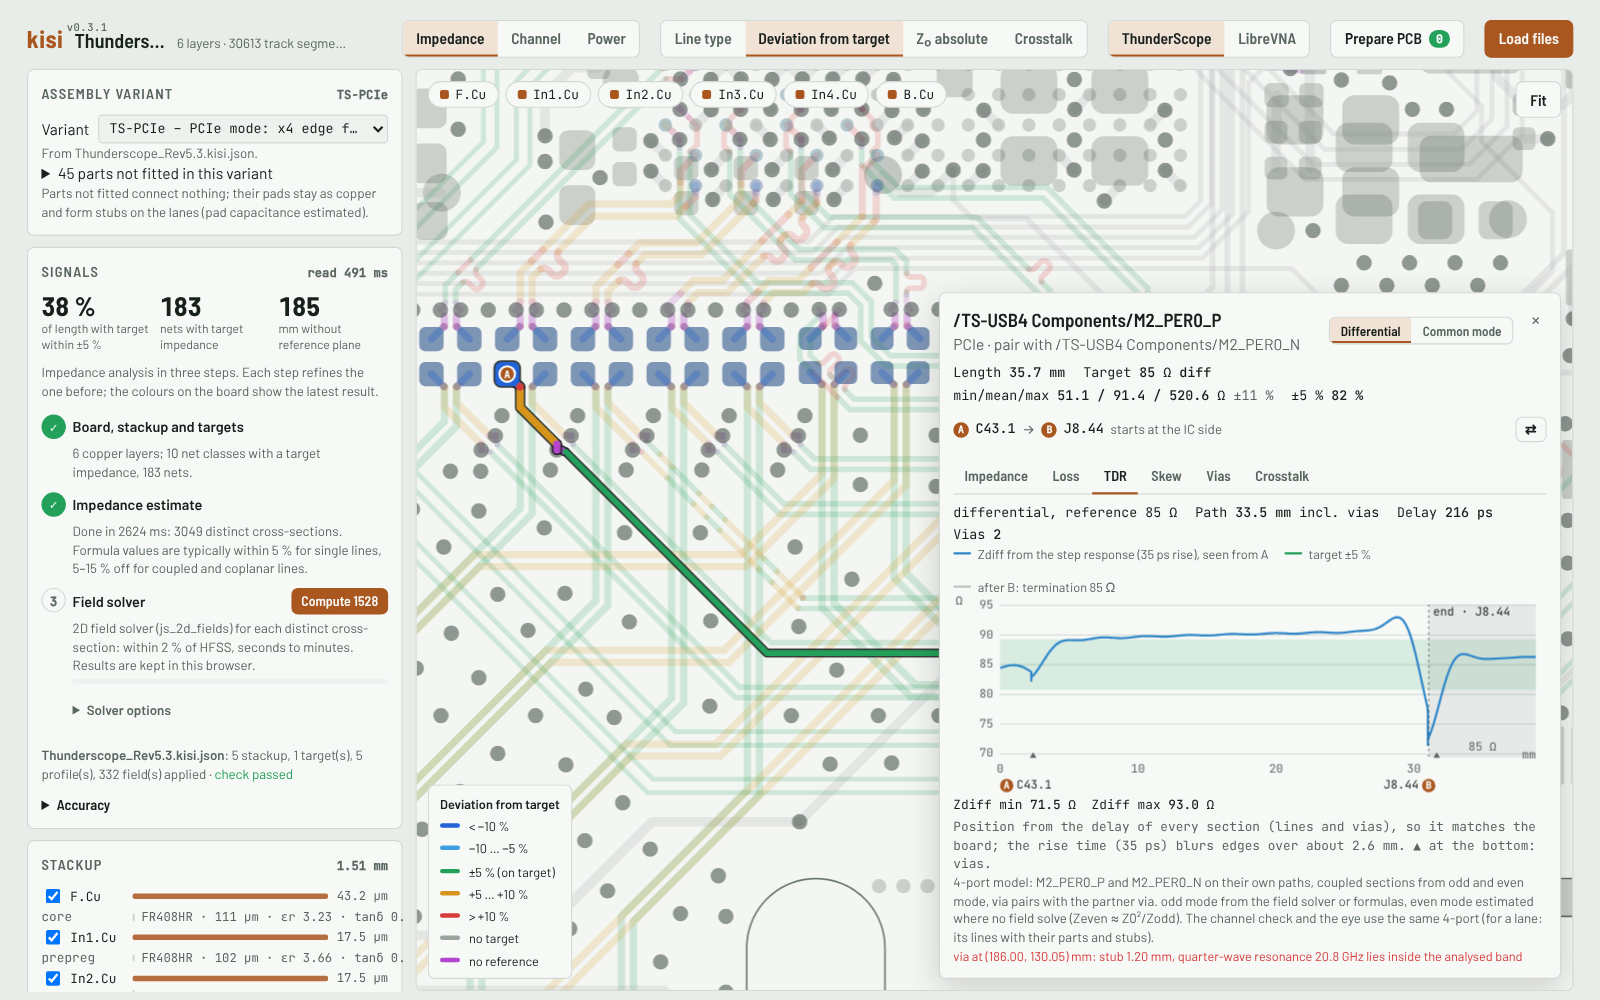
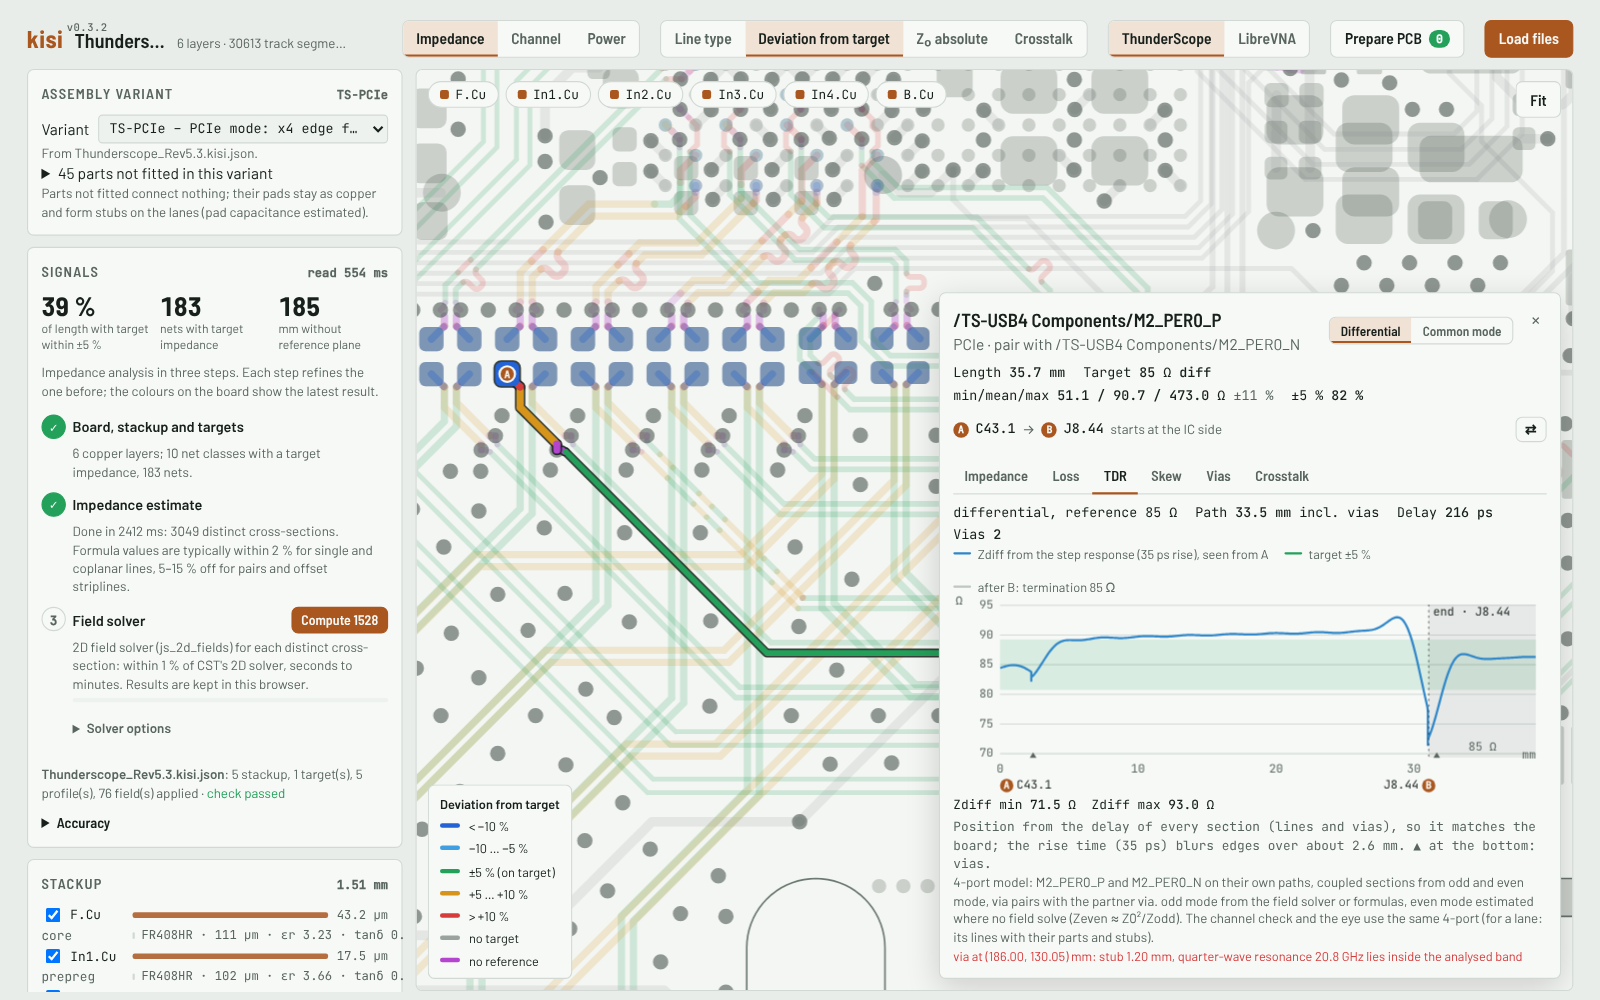
Version 0.3.2
- Version 0.3.2 (workspace, Claude plugin; the KiCad plugin takes it from
  Cargo.toml); docs screenshots regenerated with the current results.
- Docs: the 2D (620 cross-sections, CST) and 3D (openEMS, CST) cross-checks in
  README, landing page and viewer notes instead of "validation still open";
  current via-model numbers from results/kisi_models.json in docs/models.md and
  the viewer; field solver 1 % and the coplanar entry in the accuracy-levels
  note; a "Reference cases" entry on the landing page.
- ROADMAP: status after 0.3.2, released items marked, the openEMS/CST
  cross-check of the 3D references as done with what waits for the next via
  model change.
- rust_models.json and via_ref/*/ladder.s2p marked as historical (earlier
  ladder run) in validation/fdtd/README.md and on the 3D reference page.

Changed region(s): [[0.0312, 0.527, 0.25, 0.992], [0.4062, 0.186, 0.4375, 0.217]]

diff --git a/web/pages/index.html b/web/pages/index.html
@@ -144,7 +144,7 @@ node kisi.mjs check board.kicad_pcb</pre>
         <div class="card"><h3>Reference</h3>
           <ul><li><a href="https://github.com/riehlies/kisi/blob/main/docs/reference.md">Fields and kisi.json</a></li><li><a href="https://github.com/riehlies/kisi/blob/main/docs/cli.md">Command line</a></li><li><a href="https://github.com/riehlies/kisi/blob/main/docs/agents.md">Using kisi with agents</a></li></ul></div>
         <div class="card"><h3>Background</h3>
-          <ul><li><a href="https://github.com/riehlies/kisi/blob/main/docs/models.md">Models and limits</a> – accuracy, validation, estimates</li><li><a href="kisi-docs.pdf">All of it as one PDF</a></li></ul></div>
+          <ul><li><a href="https://github.com/riehlies/kisi/blob/main/docs/models.md">Models and limits</a> – accuracy, validation, estimates</li><li><a href="https://github.com/riehlies/kisi/blob/main/docs/models.md#validation">Reference cases</a> – the 3D via and plane cases and the 2D cross-sections, as pages on the releases (<code>kisi-references-3d.html</code>, <code>kisi-references-2d.html</code>)</li><li><a href="kisi-docs.pdf">All of it as one PDF</a></li></ul></div>
       </div>
     </div>
   </section>
@@ -156,8 +156,9 @@ node kisi.mjs check board.kicad_pcb</pre>
         <p><b>A quick project, meant to be helpful.</b> kisi is a fast check of a board without long setup times.
           Its results are estimates for design checks, without any warranty of correctness – not a replacement for
           sign-off simulation or measurement.</p>
-        <p>The field solver was compared with HFSS cases and the via and plane models with 3D FDTD results;
-          validation against other solvers and against measurements is still open. kisi stays a fast linear checker:
+        <p>The field solver and the formulas were compared with CST on 620 cross-sections and with HFSS cases, the
+          via and plane models with 3D FDTD references that openEMS and CST cross-check; validation against
+          measurements is still open. kisi stays a fast linear checker:
           for a sign-off with IBIS buffers and equalisers, export the channel to PyBERT or a circuit simulator. The
           single tools are useful on their own already.</p>
       </div>

diff --git a/web/index.html b/web/index.html
@@ -127,9 +127,9 @@
             <tr><td>Microstrip over 3 mm cut-out (HFSS)</td><td class="num">+17 %</td><td class="num">−0.5 %</td></tr>
           </tbody>
         </table>
-        <p class="note"><b>Lines and vias.</b> RLGC within 2 % of HFSS; copper roughness presets are estimates. Vias as a physics-based ladder (return vias, antipads, stubs, back-drilling, pairs), compared with 3D results of kisi's FDTD solver: via impedance in the TDR median 1.4 %, 90th percentile 7.4 %; pairs within 3.5° phase; stub notch within 3 %.</p>
+        <p class="note"><b>Lines and vias.</b> RLGC within 2 % of HFSS; copper roughness presets are estimates. Vias as a physics-based ladder (return vias, antipads, stubs, back-drilling, pairs), compared with the 3D references of kisi's FDTD solver, which openEMS and CST cross-check: via impedance in the TDR median 2.5 %, 90th percentile 5.6 %; pairs within 1.8° phase (median); stub notch within 1.5 %.</p>
         <p class="note"><b>Channel.</b> Parasitics of series parts and packages are estimates (data/components.json). The eye uses the profile's linear transmitter and receiver: no IBIS models, equalisation, jitter or noise. The channel behind a connector is what you give in the interface's card: a lossy line or a Touchstone file.</p>
-        <p class="note"><b>Still open:</b> validation against other solvers and against measurements (a test board is planned). Treat the numbers as plausible estimates, not as verified results.</p>
+        <p class="note"><b>Still open:</b> validation against measurements (a test board is planned). Treat the numbers as plausible estimates, not as verified results.</p>
       </details>
     </section>
 

diff --git a/validation/fdtd/viewer_template.html b/validation/fdtd/viewer_template.html
@@ -146,7 +146,7 @@ const GROUPS = {
 };
 const TOOLS = { kisi: ["kisi-fdtd", "var(--s1)", ""], kisi_fine: ["kisi-fdtd, finer mesh", "var(--s1)", "dash"], kisi_base: ["kisi-fdtd, base mesh (former reference)", "var(--s1)", "dash"], openems: ["openEMS (staircase, cell at metal halved)", "var(--s2)", ""], openems_base: ["openEMS (staircase, kisi-fdtd's mesh)", "var(--s2)", "dash"],
   openems_de: ["openEMS, de-embedded (its own 2×thru)", "var(--s2)", ""], cst: ["CST", "var(--s4)", ""], cst_de: ["CST, de-embedded (its own 2×thru)", "var(--s4)", "dash"],
-  kisi_model: ["kisi channel model (fast)", "var(--s3)", "dash"], deembedded: ["kisi-fdtd, de-embedded", "var(--s4)", ""], pbm: ["via ladder, Python prototype", "var(--s2)", "dash"], ladder: ["via ladder in kisi (Rust)", "var(--s3)", ""],
+  kisi_model: ["kisi channel model (fast)", "var(--s3)", "dash"], deembedded: ["kisi-fdtd, de-embedded", "var(--s4)", ""], pbm: ["via ladder, Python prototype", "var(--s2)", "dash"], ladder: ["via ladder in kisi (Rust, earlier run)", "var(--s3)", ""],
   model: ["cavity model", "var(--s2)", "dash"] };
 const css = (v) => getComputedStyle(document.documentElement).getPropertyValue(v.replace(/^var\((.*)\)$/, "$1")).trim();
 const cases = DATA.cases;

diff --git a/validation/fdtd/make_viewer.py b/validation/fdtd/make_viewer.py
@@ -121,7 +121,9 @@ def model_check(nm, d):
                 "kisi's ladder adds to the prototype the junction model fitted to the 3D references (series inductance μ0/(2π)·pad radius where a trace "
                 "enters the via, the trace over the antipad scaled from its own line, striplines kept up to the via centre) and the equivalent radius of "
                 "non-round antipads. Time per via for 400 frequencies: build (r–z Laplace solve) + evaluation; the Laplace result is cached per via "
-                "geometry, so a board solves it once per via type. Script: rust_models.py."]
+                "geometry, so a board solves it once per via type. Script: rust_models.py.",
+                "This table and the curves “via ladder in kisi (Rust, earlier run)” are a stored run (TESTS.md section 7), older than kisi's "
+                "current ladder (TESTS.md section 17); kisi's current model is in “kisi's fast channel model against the 3D result”."]
         if cv:
             text.append(f"Cavity model: Rust within {cv['dZ_rel_max']:.1e} of Python; {cv['nf']} frequencies × {cv['modes']} modes in "
                         f"{' / '.join(str(x) for x in cv['rust_eval_ms'])} ms (Python {' / '.join(str(x) for x in cv['python_ms'])} ms). "

diff --git a/ROADMAP.md b/ROADMAP.md
@@ -1,6 +1,6 @@
 # kisi – roadmap
 
-Planned and possible work after 0.3.1, in three development blocks plus work across them. Within a block the items
+Planned and possible work after 0.3.2, in three development blocks plus work across them. Within a block the items
 are roughly in order of priority; each says why it matters, "Decide first" marks items that need a decision before
 work starts. One rule holds for all of them: `main` always has a clean, mostly self-explanatory build – new features
 come with a small, clear UI and without option combinatorics.
@@ -53,7 +53,8 @@ well; the challenge is preparing a new design for a meaningful analysis – miss
   example boards, the XIAO and the JLC/LCSC library, in `data/components.json`), then the Value text, then the
   description; the PDN names the source of each value, `kisi gaps` lists only capacitors still without a rating,
   and the viewer's capacitor form suggests what the fields give in part. The XIAO and ThunderScope need no
-  `PI_CAP` for it any more (ThunderScope's 256 entries removed from its kisi.json, results unchanged).
+  `PI_CAP` for it any more (ThunderScope's 256 entries removed from its kisi.json, results unchanged). Released in
+  0.3.2.
 - **Power tree per supply case.** Boards that run from USB or a battery (a PMIC power path) have one tree per case:
   on the XIAO, VSYS is VBUS on USB and VBAT on battery, and the debugger is supplied only on USB; while charging, the
   battery charge current is a load on VSYS. Today one tree has to stand for all cases.
@@ -70,7 +71,9 @@ well; the challenge is preparing a new design for a meaningful analysis – miss
   in KiCad 10's PCB editor opens the saved board with its `<board>.kisi.json` in a copy of the viewer
   (`analysis/<board>.kisi.html`), the package carries the CLI and the agent guide (`docs/getting-started.md`,
   design note `docs/research/kicad-plugin.md`). Tested in KiCad 10 on Windows; the entry for KiCad's Plugin and
-  Content Manager (status `testing`, KiCad 10.0) is under review. Open: a test in KiCad 10 on Linux and macOS
+  Content Manager (status `testing`, KiCad 10.0) is under review. In 0.3.2: the Linux and macOS paths reviewed
+  (the plugin's folder, browser start, Node.js locations, Downloads folder) and the package's `install_size` as
+  KiCad's repository validator counts it. Open: a test in KiCad 10 on Linux and macOS
   (checklist in the design note; their code paths are reviewed and unit-tested), then status `stable`; KiCad 9
   (untested); the "unsaved changes" notice once KiCad's API reports them (`GetDocumentModifiedState`, KiCad's
   development branch – the plugin uses it when kicad-python has it).
@@ -109,6 +112,14 @@ validation, and every result says which level it used and how uncertain it is.
   - **a 3D check in the viewer** (export a selected via or structure, run kisi-fdtd in a worker, compare with the
     ladder at the via centre; about 8 days, a minimal version 4; design note `BOARD_VIAS.md` section 5.6);
   - the ladder in WebAssembly is about 2 × slower than native.
+- **3D references cross-checked** (done, released in 0.3.2): every one of the 106 reference cases also in openEMS
+  and in CST Studio Suite (TESTS.md sections 16 and 17, `validation/fdtd/CST.md`); the cross-check found the
+  inner-layer exits and the board vias with an inner exit not mesh-converged, and they were recomputed on a refined
+  mesh (kisi-fdtd − CST within ±0.07 ps on 16 of 17 cases, before +1.0 … +2.3 ps). Next, one model change together:
+  the junction fit's proposal (the ladder is now 1.26 ps slow on stripline exits; remove about 0.2 mm of the
+  stripline feed, TESTS.md section 17), then the stored via results – `data/accuracy.json`'s via numbers (2.45 /
+  5.92 % and 12.6 / 14.4 %; 2.46 / 5.64 % and 10.9 / 13.7 % against the refined references), and
+  `results/rust_models.json` and `via_ref/<case>/ladder.s2p`, which are older than the current ladder.
 - **Causal and passive models** (`feat/accuracy`, done): the via pairs' modes and the plane-pair matrix passive by
   construction, Djordjevic-Sarkar everywhere, the causal Huray roughness with its inductance, microstrip
   dispersion below a resonance; every example lane passive and causal in a test (`validation/fdtd/TESTS.md`
@@ -123,10 +134,11 @@ validation, and every result says which level it used and how uncertain it is.
   (`data/accuracy.json`, design note `docs/research/accuracy-levels.md`). Next: loss (± dB at Nyquist from
   lines and vias) and return loss (a range from the impedance uncertainty), then the eye; the 3D level per
   selected structure with the viewer's 3D check.
-- **Cross-section formulas and etch** (`feat/xs-accuracy`): the 2D validation (`validation/cst_xs`, 620 cases
-  against CST) set the field solver's uncertainty to 1 % and brought formulas for coplanar lines (grounded CPW,
-  stripline with coplanar ground, the coupled grounded CPW; single lines with coplanar copper 4.9 → 1.1 % median).
-  Next:
+- **Cross-section formulas and etch** (done, released in 0.3.2): the 2D validation (`validation/cst_xs`, 620 cases
+  against CST, the full-wave backend of js_2d_fields, kisi's field solver and formulas; page
+  `kisi-references-2d.html`) set the field solver's uncertainty to 1 % and brought formulas for coplanar lines
+  (grounded CPW, stripline with coplanar ground, the coupled grounded CPW; single lines with coplanar copper
+  4.9 → 1.1 % median). Next:
   - **etch factor** per stackup or layer in `kisi.json`, applied as an effective width w − t/(2·ef) (the FDM
     backend takes no trapezoids; CST: within ±2.2 % for microstrips and pairs, −2 … −4 % for striplines, against
     −2 … −11 % today), with values from the test board's measured cross-sections (JLC) once they exist;
@@ -218,9 +230,10 @@ export shows it). Background: `docs/models.md` (scope, why kisi is fast); the ea
   validation (block 2). Today: ThunderScope, LibreVNA, XIAO nRF54LM20A (`docs/examples/`).
 - **Corpus run** (`data/corpus.json`, `tools/corpus.py`, `validation/corpus/`): 32 open-source boards weekly in CI
   and about 200 more monthly and by hand (its KiCad 5 and older boards are refused, the expected outcome), without a
-  `kisi.json` – parser robustness, crashes, run times and drift of the summary
-  numbers. Next: a `kisi.json` for the about 16 SI- and PI-rich weekly boards (net-class targets and profiles,
-  laminate, power tree; kisi-prepare), so that the weekly run also guards impedance, channel and power results;
+  `kisi.json` – parser robustness, crashes, run times and drift of the summary numbers (in 0.3.2, with the parser
+  fixes it found: repeated stackups, panel and repeated outlines, net class names such as `SE50`/`Diff_100`, DDR3
+  profiles, KiCad 6 as the minimum). Next: a `kisi.json` for the about 16 SI- and PI-rich weekly boards (net-class
+  targets and profiles, laminate, power tree; kisi-prepare), so that the weekly run also guards impedance, channel and power results;
   re-select from the harness list now and then (repositories disappear: two of the 200 already).
 
 ## Maintenance

diff --git a/docs/research/accuracy-levels.md b/docs/research/accuracy-levels.md
@@ -24,9 +24,10 @@ Every number is a *typical* deviation from kisi's own validation, kept with its 
 
 | Quantity | Level | Uncertainty | Source |
 |---|---|---|---|
-| impedance of a cross-section | field solver | 2 % | Forstén's suite vs HFSS/Ansys 1.7 % (`validate_field.sh`); ThunderScope cross-sections ≤ 0.5 % |
+| impedance of a cross-section | field solver | 1 % (2 % until the 2D validation) | 620 cross-sections against CST (`validation/cst_xs`): median 0.18 %, p90 0.47 %, max 1.03 %; Forstén's suite vs HFSS/Ansys 1.7 % (`validate_field.sh`) |
 | | formula, single microstrip | 2 % | docs/models.md table (+1.4 %), HFSS microstrip −0.6 % |
-| | formula, coupled or coplanar | 8 % | diff microstrip +5.6 / +7.8 % |
+| | formula, microstrip with coplanar copper | 2 % | `validation/cst_xs`, 104 cases: median 0.9 %, p90 1.7 % |
+| | formula, coupled pair (also with coplanar ground) | 8 % | diff microstrip +5.6 / +7.8 % |
 | | formula, stripline | 11 % | asymmetric stripline +10.3 %, 3D stripline +11 % (`T_ts6_sl`) |
 | | formula over a cut-out (flag “rough”) | 25 % | the 3313 launch over a 0.465 mm opening |
 | | no plane (coplanar estimate) | 15 % | gold-finger cases, TESTS.md section 15 |
@@ -39,7 +40,7 @@ Every number is a *typical* deviation from kisi's own validation, kept with its 
 | eye | from the channel | not quantified; the loss and RL ranges propagated through the eye | later |
 
 The uncertainty of a net is the length-weighted mean of its cross-sections' (a net that is 90 % field-solved
-microstrip and 10 % formula stripline: 0.9·2 + 0.1·11 = 2.9 %). The level is “field solver”, “formula” or
+microstrip and 10 % formula stripline: 0.9·1 + 0.1·11 = 2.0 %). The level is “field solver”, “formula” or
 “mixed” by the share of the length the field solver covers.
 
 ## Output, without clutter

diff --git a/docs/getting-started.md b/docs/getting-started.md
@@ -22,8 +22,8 @@ Every [release](https://github.com/riehlies/kisi/releases/latest) carries:
 | `kisi.mjs` | the command line for scripts, CI and agents (Node.js ≥ 18), with the 2D field solver |
 | `kisi-docs.pdf` | this documentation as one PDF |
 | `kisi-kicad-<version>.zip` | the KiCad plugin: a button in KiCad's PCB editor that opens the board in the viewer ([below](#from-kicad-the-plugin)) |
-| `kisi-references-3d.html` | 3D reference cases for vias, stubs, pairs, lines and plane cavities with field plots, and kisi's fast models against them (attached to the releases in which the cases changed; up to v0.3.1 named `kisi-references.html`, currently [v0.3.0](https://github.com/riehlies/kisi/releases/tag/v0.3.0)) |
-| `kisi-references-2d.html` | 620 cross-sections solved by CST, a full-wave FEM solver, kisi's field solver and kisi's formulas: impedance, εeff and loss per case and per line type (attached to the releases in which the cases changed) |
+| `kisi-references-3d.html` | 3D reference cases for vias, stubs, pairs, lines and plane cavities with field plots, and kisi's fast models against them (attached to the releases in which the cases changed; up to v0.3.1 named `kisi-references.html`, currently [v0.3.2](https://github.com/riehlies/kisi/releases/tag/v0.3.2)) |
+| `kisi-references-2d.html` | 620 cross-sections solved by CST, a full-wave FEM solver, kisi's field solver and kisi's formulas: impedance, εeff and loss per case and per line type (attached to the releases in which the cases changed, currently [v0.3.2](https://github.com/riehlies/kisi/releases/tag/v0.3.2)) |
 
 The [live version](https://riehlies.github.io/kisi/) serves the viewer and the example viewer from GitHub Pages.
 

diff --git a/docs/models.md b/docs/models.md
@@ -124,9 +124,9 @@ pours on the via's signal layers as coplanar returns, stubs and back-drill, the 
 with their partner. Passive by construction: the plane-pair matrices treat every barrel as a cylinder of
 uniform current, and a pair's modes are taken as (Z_PP + Z_NN)/2 ∓ Z_PN (the earlier Z_PP ∓ Z_PN gave via pairs
 with returns on one side a negative resistance from a few GHz). Vias that do not cross a plane are coaxial sections. Compared with 3D results of kisi's own
-FDTD solver: via impedance in the TDR median 2.3 %, 90th percentile 5.5 % (single vias); pairs within 3.5°
-phase; stub notch within 3 %; the four board vias with a 3D reference within 0.03–0.44 dB up to 12 GHz. An
-estimate, not a 3D result: above 12 GHz the ladder follows the 3D results only where its return posts close
+FDTD solver ([Validation](#validation)): via impedance in the TDR median 2.5 %, 90th percentile 5.6 % (single
+vias); pairs within 1.8° phase (median); stub notch within 1.5 % (`validation/fdtd/results/kisi_models.json`); the
+four board vias with a 3D reference within 0.03–0.44 dB up to 12 GHz. An estimate, not a 3D result: above 12 GHz the ladder follows the 3D results only where its return posts close
 the via's cage. A via whose path crosses a ground/supply plane pair that no return via bridges gets a warning.
 `--via-cavity` (finite plane pairs) and `--via-returns` (return groups per plane pair) are experimental options.
 

diff --git a/validation/fdtd/README.md b/validation/fdtd/README.md
@@ -89,6 +89,9 @@ and the lumped R–L–C.
   field of port 1 (top view in the thickest dielectric, animated; section through the via; collapsed by default).
 - `rust_models.py` runs the Rust port of the reduced models (`kisi-validate models`) against the Python prototypes
   and the 3D results, with run times → `results/rust_models.json`; kisi's ladder per case → `via_ref/<case>/ladder.s2p`.
+  Both stored files are historical: last written with TESTS.md section 7, older than the current ladder (section 17,
+  "Not regenerated"); the reference page's “via ladder in kisi (Rust, earlier run)” curves and its “Rust port” table
+  show that run. `results/kisi_models.json` (`compare_kisi.py`, `tools/golden.py vias`) is kisi's current model.
   `kisi-validate via-geom geom.json [--s2p f.s2p]` evaluates one via geometry (the JSON that `KISI_DEBUG_VIA=1`
   prints from `kisi` or `kisi-validate models`).
 - `fdtd_refs.py` runs kisi-fdtd references too large for one machine on GitHub Actions runners (workflow

diff --git a/README.md b/README.md
@@ -67,7 +67,8 @@ All of it as one PDF: `kisi-docs.pdf` on every [release](https://github.com/rieh
 - The channel check is a first look: linear transmitter and receiver from the interface profile, no IBIS models,
   equalisation, jitter or noise.
 - 2D cross-sections and reduced via and plane models instead of a full-board 3D solution.
-- Validated against HFSS cases and kisi's own 3D FDTD references; validation against other solvers and
+- Validated against 620 cross-sections in CST and HFSS cases (field solver and formulas) and against 3D FDTD
+  references of vias, pairs and plane cavities, each cross-checked with openEMS and CST; validation against
   measurements is still open. Data the board file lacks defaults to estimates until `<board>.kisi.json` fills
   it in. Details: [Models and limits](docs/models.md).
 
